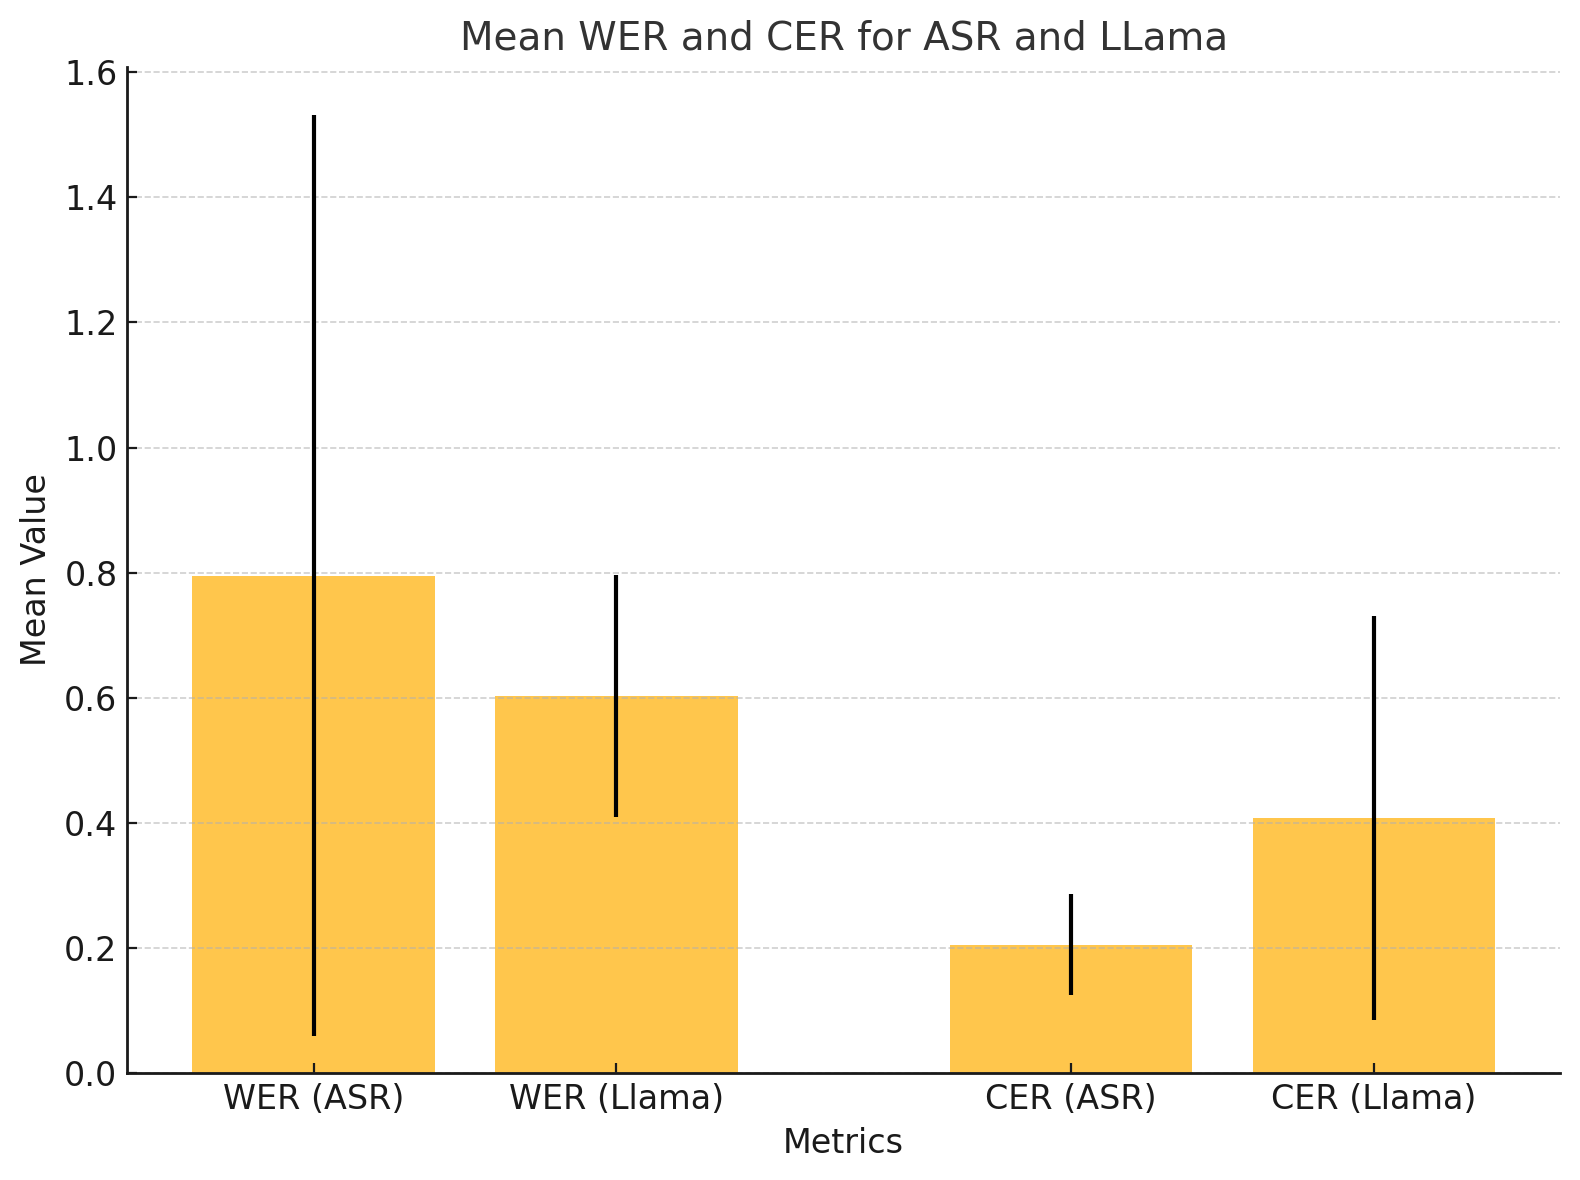
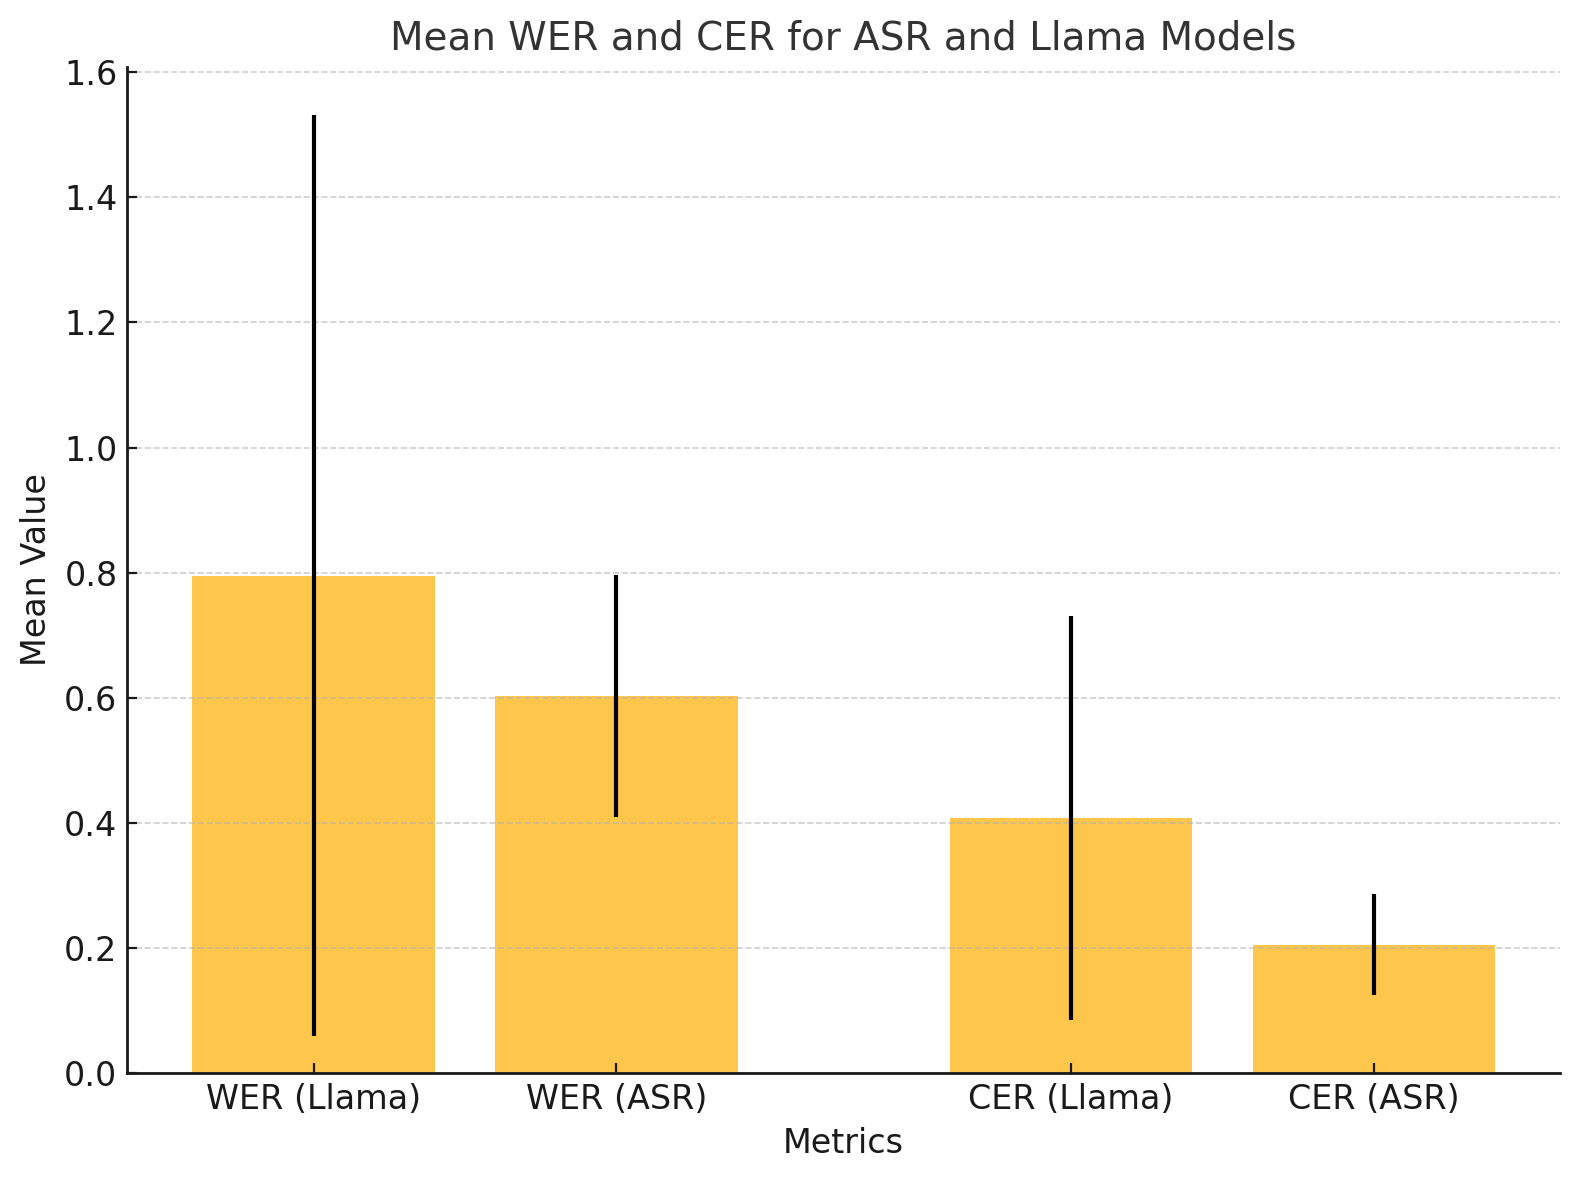
adfasdfasf

diff --git a/demo.py b/demo.py
@@ -41,7 +41,7 @@ def correct_errors(text):
 demo = gr.Blocks()
 
 with demo:
-    gr.HTML("<h1>Frision Speech-to-Text Error Correction</h1>")
+    gr.HTML("<h1>Frisian Speech-to-Text Error Correction</h1>")
     gr.HTML("<p>Upload an audio file in Frisian and press 'Transcribe Audio' to transcribe the audio. The transcription will appear in the text box below. You can also type Frisian text in the text box to be corrected and press 'Correct Errors' to correct the text.</p>")
     gr.HTML("<p>Note that correcting the errors may take up to a minute.</p>")
 
@@ -59,5 +59,6 @@ with demo:
 
         b2 = gr.Button("Correct Errors")
         b2.click(correct_errors, inputs=text, outputs=corrected_text)
+
 
 demo.launch(server_port=5000)

diff --git a/README.md b/README.md
@@ -17,7 +17,7 @@ Frisian is a low-resource language spoken by around 400,000 thousand people in t
 
 We ran wav2vec2-large-xlsr-53-frisian by wietsedv a speech-to-text model for Frisian (available [here](wietsedv/wav2vec2-large-xlsr-53-frisian) on the validation set of the Frisian Common Voice Dataset and calculated the normalized word error rate (WER) and normalized character error rate (CER) to evaluate the model. Then we fine-tuned  Llama3.2 3B  to correct the errors in the transcription. We also evaluated the model using the WER and CER metrics. See table below for the results, ASR refers to the original transcription and Llama refers to the corrected transcription.
 
-| Statistic | WER (ASR)  | WER (Llama)  | CER (ASR)  | CER (LLama) |
+| Statistic | WER (Llama)  | WER (ASr)  | CER (Llama)  | CER (ASR) |
 |-----------|-----------|-----------|-----------|-----------|
 | count     | 100.00000 | 100.00000 | 100.00000 | 100.00000 |
 | mean      |  0.795456 | 0.603064  | 0.205363  | 0.408049  |
